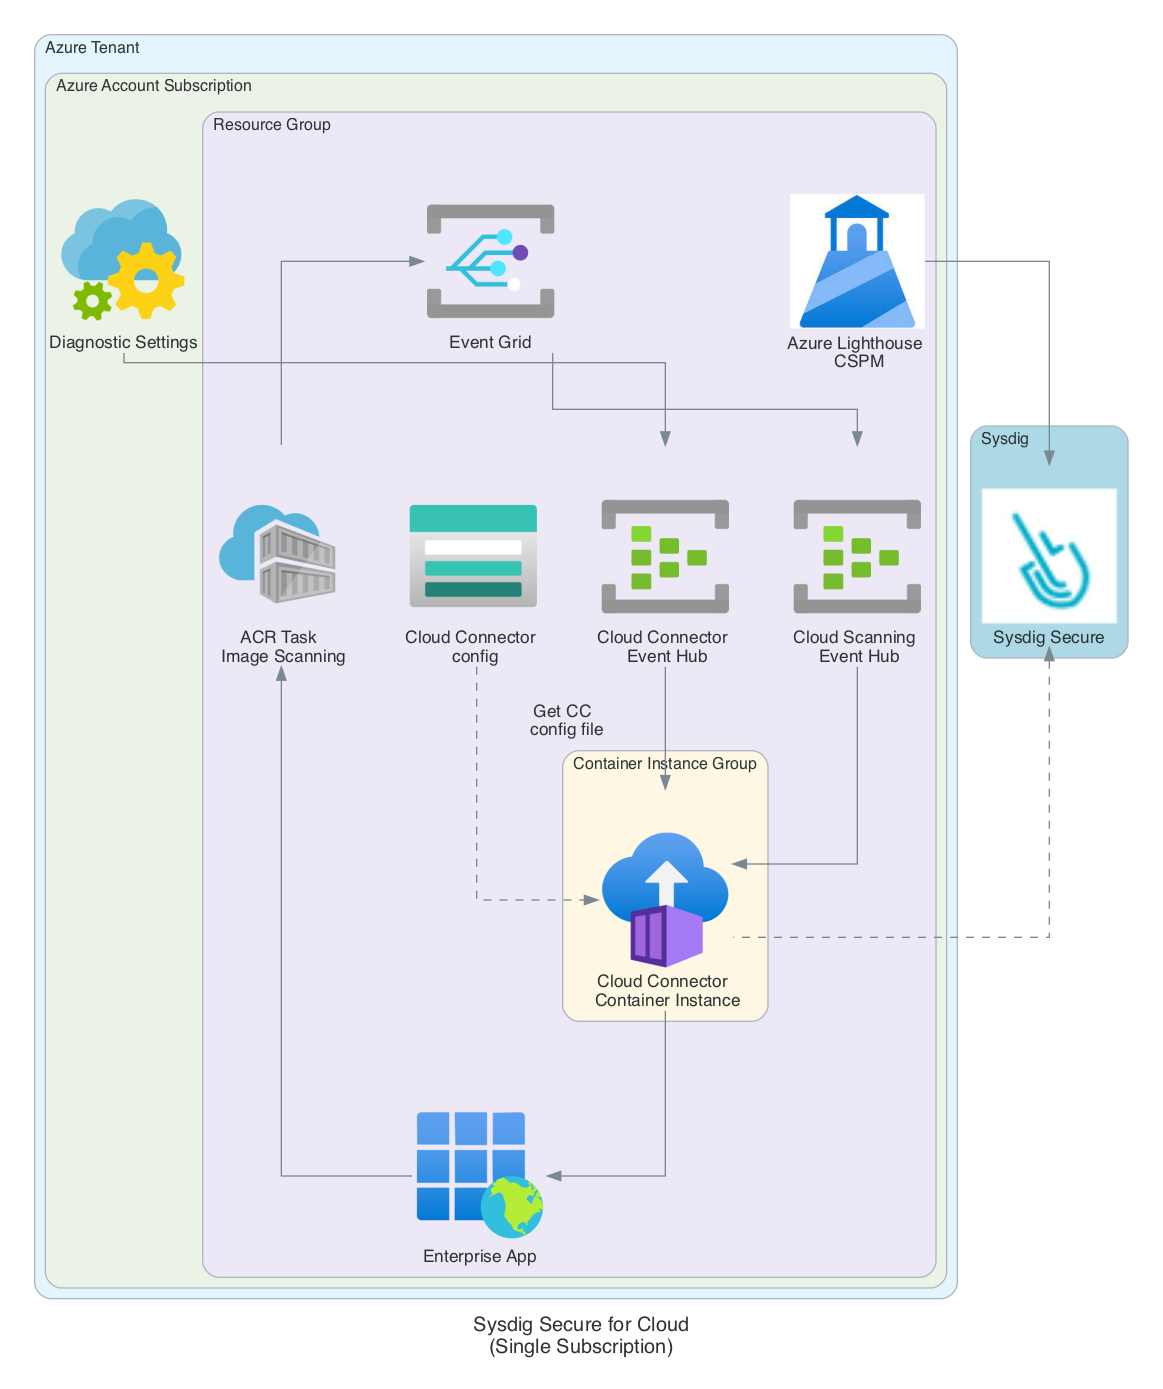
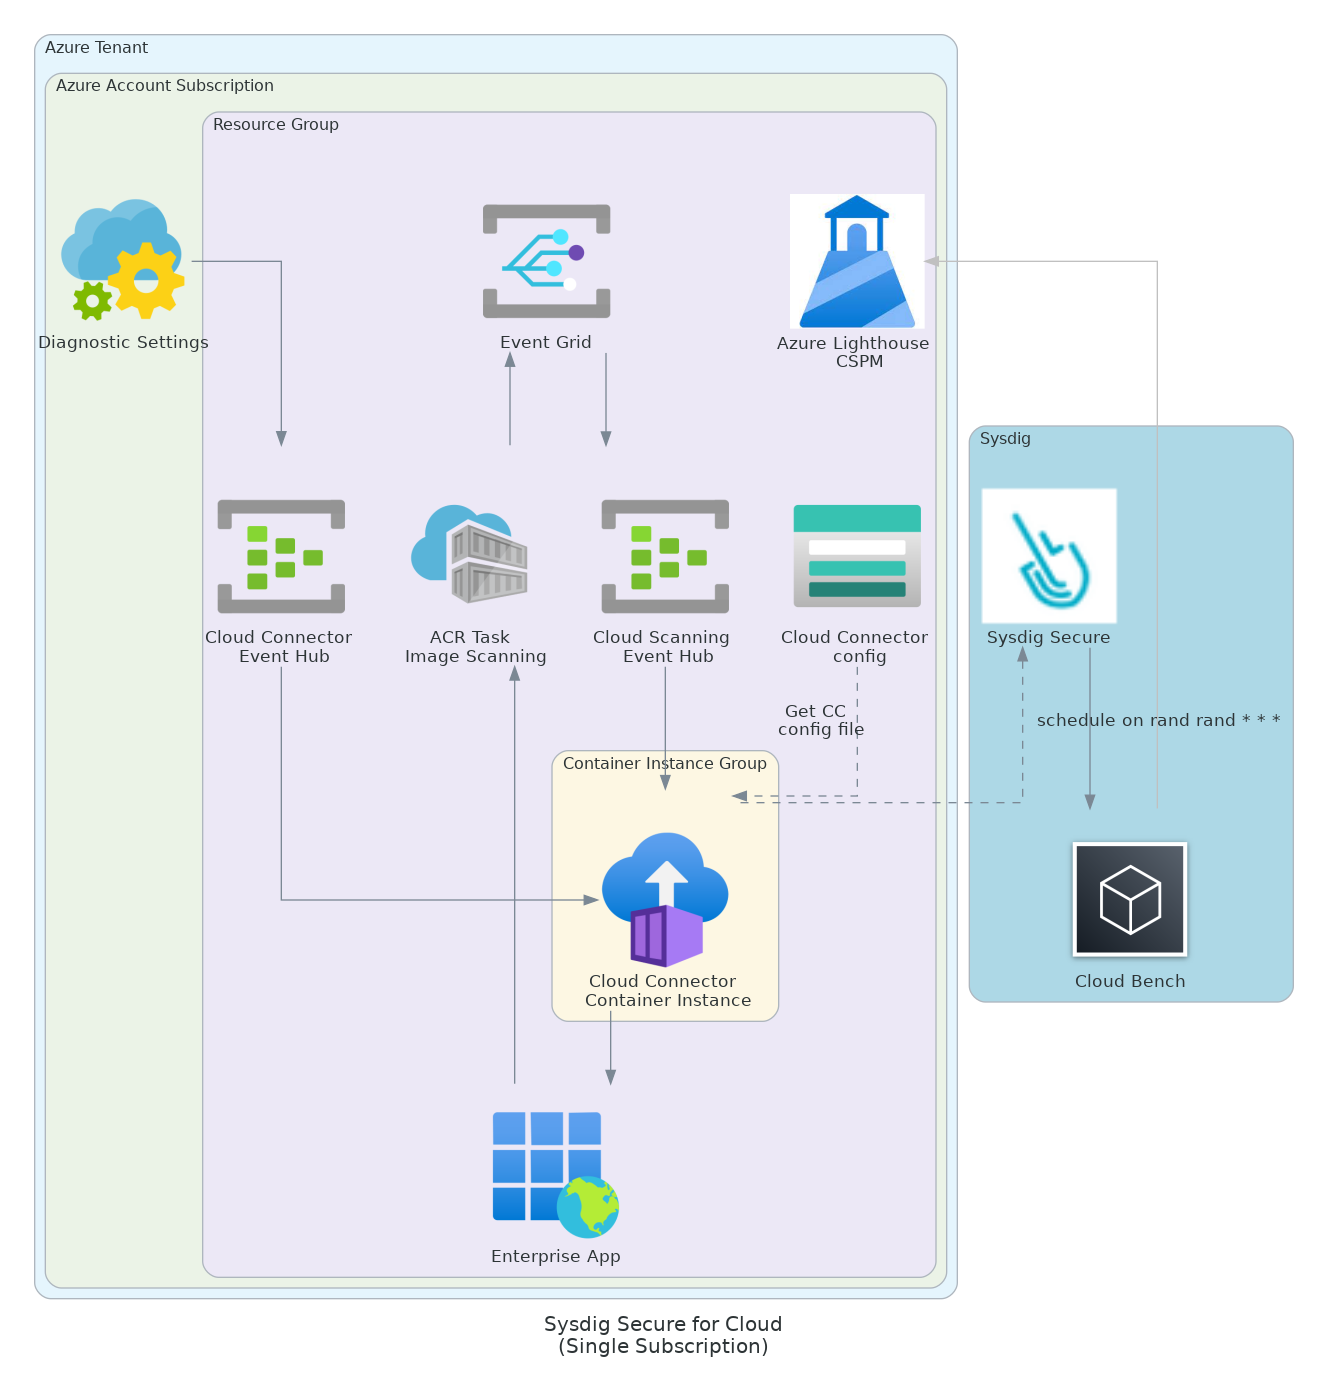
docs: homogeneize diagrams and minor README/CONTRIBUTE changes (#62)
* docs: homogeneize diagrams and minor README/CONTRIBUTE changes

* ci: upgrade terraform-docs on PR actions

diff --git a/examples/tenant-subscriptions/diagram-tenant.py b/examples/tenant-subscriptions/diagram-tenant.py
@@ -1,4 +1,6 @@
 # diagrams as code vía https://diagrams.mingrammer.com
+
+from diagrams.aws.general import General
 from diagrams import Diagram, Cluster, Edge
 from diagrams.azure.compute import ContainerInstances, ContainerRegistries, FunctionApps
 from diagrams.azure.storage import StorageAccounts
@@ -18,13 +20,12 @@ role_attr = {
     "fontsize": "9",
 }
 
+color_non_important="gray"
+
 with Diagram("Sysdig Secure for Cloud\n(Single Subscription)", graph_attr=diagram_attr, filename="diagram-tenant",
              show=True,
              direction="TB"):
     with Cluster("Azure Tenant"):
-        with Cluster("Sysdig", graph_attr={"bgcolor": "lightblue"}):
-            sds = Custom("Sysdig Secure", "../../resources/diag-sysdig-icon.png")
-
         with Cluster("Azure Account Subscription 2", graph_attr={"bgcolor": "seashell2"}):
             diagnosticSettings = AppConfiguration("Diagnostic Settings")
             with Cluster("Resource Group"):
@@ -50,7 +51,7 @@ with Diagram("Sysdig Secure for Cloud\n(Single Subscription)", graph_attr=diagra
                 app = EnterpriseApplications("Enterprise App")
                 cregistry = ContainerRegistries("ACR Task \n Image Scanning")
                 eventGrid = EventGridDomains("Event Grid")
-                bench = Custom("Azure Lighthouse \n CSPM", "../../resources/diag-lighthouse.jpeg")
+                lighthouse = Custom("Azure Lighthouse \n CSPM", "../../resources/diag-lighthouse.jpeg")
 
                 ccConfig >> Edge(style="dashed", label="Get CC \n config file") >> cc
                 cregistry << app
@@ -62,8 +63,13 @@ with Diagram("Sysdig Secure for Cloud\n(Single Subscription)", graph_attr=diagra
                 eventGrid << cregistry
                 eventGrid >> eventhubCS
 
-                sds << Edge(style="dashed") << cc
-                bench >> sds
-
                 eventhubCC1 >> cc
                 eventhubCS1 >> cc
+
+    with Cluster("Sysdig", graph_attr={"bgcolor": "lightblue"}):
+        sds = Custom("Sysdig Secure", "../../resources/diag-sysdig-icon.png")
+        bench = General("Cloud Bench")
+        sds >> Edge(label="schedule on rand rand * * *") >> bench
+
+    sds << Edge(style="dashed") << cc
+    lighthouse <<  Edge(color=color_non_important) << bench

diff --git a/examples/single-subscription/diagram-single.py b/examples/single-subscription/diagram-single.py
@@ -1,4 +1,6 @@
 # diagrams as code vía https://diagrams.mingrammer.com
+
+from diagrams.aws.general import General
 from diagrams import Diagram, Cluster, Edge
 from diagrams.azure.compute import ContainerInstances, ContainerRegistries, FunctionApps
 from diagrams.azure.storage import StorageAccounts
@@ -18,11 +20,11 @@ role_attr = {
     "fontsize": "9",
 }
 
+color_non_important="gray"
+
 with Diagram("Sysdig Secure for Cloud\n(Single Subscription)", graph_attr=diagram_attr, filename="diagram-single",
              show=True,
              direction="TB"):
-    with Cluster("Sysdig", graph_attr={"bgcolor": "lightblue"}):
-        sds = Custom("Sysdig Secure", "../../resources/diag-sysdig-icon.png")
 
     with Cluster("Azure Tenant"):
         with Cluster("Azure Account Subscription"):
@@ -38,7 +40,7 @@ with Diagram("Sysdig Secure for Cloud\n(Single Subscription)", graph_attr=diagra
                 app = EnterpriseApplications("Enterprise App")
                 cregistry = ContainerRegistries("ACR Task \n Image Scanning")
                 eventGrid = EventGridDomains("Event Grid")
-                bench = Custom("Azure Lighthouse \n CSPM", "../../resources/diag-lighthouse.jpeg")
+                lighthouse = Custom("Azure Lighthouse \n CSPM", "../../resources/diag-lighthouse.jpeg")
 
                 ccConfig >> Edge(style="dashed", label="Get CC \n config file") >> cc
                 cregistry << app
@@ -46,9 +48,15 @@ with Diagram("Sysdig Secure for Cloud\n(Single Subscription)", graph_attr=diagra
                 eventhubCC >> cc
                 eventhubCS >> cc
                 cc >> app
-                bench >> sds
 
                 eventGrid << cregistry
                 eventGrid >> eventhubCS
 
-                sds << Edge(style="dashed") << cc
+
+    with Cluster("Sysdig", graph_attr={"bgcolor": "lightblue"}):
+        sds = Custom("Sysdig Secure", "../../resources/diag-sysdig-icon.png")
+        bench = General("Cloud Bench")
+        sds >> Edge(label="schedule on rand rand * * *") >> bench
+
+    sds << Edge(style="dashed") << cc
+    lighthouse <<  Edge(color=color_non_important) << bench

diff --git a/CONTRIBUTE.md b/CONTRIBUTE.md
@@ -39,10 +39,10 @@
 - [ ] **input/output** variables have been modified?
   - [ ] terraform-docs has been updated accordingly
   - [ ] if these inputs are mandatory, they've been changed on
-    - [ ] examples
-    - [ ] testing use-cases
-    - [ ] snippets on README's
-    - [ ] snippets on Secure Platform onboarding
+    - [ ] examples, examples-internal and use-cases are updated accordingly
+    - [ ] tests are updated accordingly
+    - [ ] snippets on README's are updated accordingly
+    - [ ] snippets on Secure Platform onboarding are updated accordingly
 - [ ] had any problems developing this PR? add it to the readme **troubleshooting** list! may come handy to someone
 
 
@@ -69,9 +69,31 @@ Implemented vía **Terraform Kitchen** | https://newcontext-oss.github.io/kitche
 
 - Kitchen configuration can be found in `/.kitchen.yml`
 - Under `/test/fixtures` you can find the targets that will be tested. Please keep this as similar as possible to the Terraform Registry Modules examples.
+  - In order to test this in your local environment use following recipee
+  ```bash
+  terraform init -backend=false && \
+  terraform validate && \
+  terraform plan && \
+  read && \   # will give you time to review plan or just push enter to apply
+  terraform apply --auto-approve
+  ```
 - AWS_PROFILE configuration is required to access the [TF s3 state backend](#terraform-backend)
 
-**Running Kitchen tests locally**
+### Terraform Backend
+
+Because CI/CD sometimes fail, we setup the Terraform state to be handled in backend (s3+dynamo) within the Sysdig AWS backend (sysdig-test-account).
+
+### Remote state cleanup from local
+
+In case you need to handle terraform backend state from failing kitchen tests, some guidance for using the `backend.tf` remote state manifest, present on each test
+- Configure same parameters as the github action, that is `AWS_PROFILE`, and leave default `name` and `region` values
+- Kitchen works with `terraform workspaces` so, in case you want to fix a specific test, switch to that workspace after the `terraform init` with `terraform workspace select WORKSPACE`
+- Perform the desired terraform task
+
+You can also use `kitchen destroy` instead of `terraform` but the requirements are the same, except that the workspace will be managed through kitchen
+
+
+### Running Kitchen tests locally
 
 Ruby 2.7 is required to launch the tests.
 Run `bundle install` to get kitchen-terraform bundle.
@@ -87,17 +109,12 @@ $ bundle exec kitchen destroy
 $ bundle exec kitchen tests
 
 # run one specific test
-$ bundle exec kitchen test "single-account-k8s-aws"
-
+$ bundle exec kitchen test "single-subscription"
 ```
 
-### Terraform Backend
-
-Because CI/CD sometimes fail, we setup the Terraform state to be handled in backend (s3+dynamo) within the Sysdig AWS backend (sysdig-test-account).
-In order to be able to use this Terraform backend AWS credentials are configured as Github project secret
-
-If terraform state ends up in bad shape and not cleaned, use the action called `Test Cleanup` that should destroy any messed situation.
-If this does not work, try it from your local, but please do it using `kitchen destroy`, not `terraform destroy` unless you really know what you're doing :]
+Note: As said before kitchen works with workspaces, so any local test, unless you change it, will fall into the `default` workspace and will not collide with
+Github Action tests. May collide however with other peers if they're doing similar tasks on local ;)
+You can always temporary delete the `backend.tf` file on the test you're running
 
 ### Deployed infrastructure resources
 

diff --git a/examples/tenant-subscriptions/README.md b/examples/tenant-subscriptions/README.md
@@ -82,19 +82,19 @@ Notice that:
 
 | Name | Version |
 |------|---------|
-| <a name="provider_azurerm"></a> [azurerm](#provider\_azurerm) | >= 2.85.0 |
+| <a name="provider_azurerm"></a> [azurerm](#provider\_azurerm) | 2.85.0 |
 
 ## Modules
 
 | Name | Source | Version |
 |------|--------|---------|
-| <a name="module_cloud_bench"></a> [cloud\_bench](#module\_cloud\_bench) | ../../modules/services/cloud-bench |  |
-| <a name="module_cloud_connector"></a> [cloud\_connector](#module\_cloud\_connector) | ../../modules/services/cloud-connector |  |
-| <a name="module_infrastructure_container_registry"></a> [infrastructure\_container\_registry](#module\_infrastructure\_container\_registry) | ../../modules/infrastructure/container_registry |  |
-| <a name="module_infrastructure_enterprise_app"></a> [infrastructure\_enterprise\_app](#module\_infrastructure\_enterprise\_app) | ../../modules/infrastructure/enterprise_app |  |
-| <a name="module_infrastructure_eventgrid_eventhub"></a> [infrastructure\_eventgrid\_eventhub](#module\_infrastructure\_eventgrid\_eventhub) | ../../modules/infrastructure/eventhub |  |
-| <a name="module_infrastructure_eventhub"></a> [infrastructure\_eventhub](#module\_infrastructure\_eventhub) | ../../modules/infrastructure/eventhub |  |
-| <a name="module_infrastructure_resource_group"></a> [infrastructure\_resource\_group](#module\_infrastructure\_resource\_group) | ../../modules/infrastructure/resource_group |  |
+| <a name="module_cloud_bench"></a> [cloud\_bench](#module\_cloud\_bench) | ../../modules/services/cloud-bench | n/a |
+| <a name="module_cloud_connector"></a> [cloud\_connector](#module\_cloud\_connector) | ../../modules/services/cloud-connector | n/a |
+| <a name="module_infrastructure_container_registry"></a> [infrastructure\_container\_registry](#module\_infrastructure\_container\_registry) | ../../modules/infrastructure/container_registry | n/a |
+| <a name="module_infrastructure_enterprise_app"></a> [infrastructure\_enterprise\_app](#module\_infrastructure\_enterprise\_app) | ../../modules/infrastructure/enterprise_app | n/a |
+| <a name="module_infrastructure_eventgrid_eventhub"></a> [infrastructure\_eventgrid\_eventhub](#module\_infrastructure\_eventgrid\_eventhub) | ../../modules/infrastructure/eventhub | n/a |
+| <a name="module_infrastructure_eventhub"></a> [infrastructure\_eventhub](#module\_infrastructure\_eventhub) | ../../modules/infrastructure/eventhub | n/a |
+| <a name="module_infrastructure_resource_group"></a> [infrastructure\_resource\_group](#module\_infrastructure\_resource\_group) | ../../modules/infrastructure/resource_group | n/a |
 
 ## Resources
 

diff --git a/examples/single-subscription/README.md b/examples/single-subscription/README.md
@@ -66,13 +66,13 @@ Notice that:
 
 | Name | Source | Version |
 |------|--------|---------|
-| <a name="module_cloud_bench"></a> [cloud\_bench](#module\_cloud\_bench) | ../../modules/services/cloud-bench |  |
-| <a name="module_cloud_connector"></a> [cloud\_connector](#module\_cloud\_connector) | ../../modules/services/cloud-connector |  |
-| <a name="module_infrastructure_container_registry"></a> [infrastructure\_container\_registry](#module\_infrastructure\_container\_registry) | ../../modules/infrastructure/container_registry |  |
-| <a name="module_infrastructure_enterprise_app"></a> [infrastructure\_enterprise\_app](#module\_infrastructure\_enterprise\_app) | ../../modules/infrastructure/enterprise_app |  |
-| <a name="module_infrastructure_eventgrid_eventhub"></a> [infrastructure\_eventgrid\_eventhub](#module\_infrastructure\_eventgrid\_eventhub) | ../../modules/infrastructure/eventhub |  |
-| <a name="module_infrastructure_eventhub"></a> [infrastructure\_eventhub](#module\_infrastructure\_eventhub) | ../../modules/infrastructure/eventhub |  |
-| <a name="module_infrastructure_resource_group"></a> [infrastructure\_resource\_group](#module\_infrastructure\_resource\_group) | ../../modules/infrastructure/resource_group |  |
+| <a name="module_cloud_bench"></a> [cloud\_bench](#module\_cloud\_bench) | ../../modules/services/cloud-bench | n/a |
+| <a name="module_cloud_connector"></a> [cloud\_connector](#module\_cloud\_connector) | ../../modules/services/cloud-connector | n/a |
+| <a name="module_infrastructure_container_registry"></a> [infrastructure\_container\_registry](#module\_infrastructure\_container\_registry) | ../../modules/infrastructure/container_registry | n/a |
+| <a name="module_infrastructure_enterprise_app"></a> [infrastructure\_enterprise\_app](#module\_infrastructure\_enterprise\_app) | ../../modules/infrastructure/enterprise_app | n/a |
+| <a name="module_infrastructure_eventgrid_eventhub"></a> [infrastructure\_eventgrid\_eventhub](#module\_infrastructure\_eventgrid\_eventhub) | ../../modules/infrastructure/eventhub | n/a |
+| <a name="module_infrastructure_eventhub"></a> [infrastructure\_eventhub](#module\_infrastructure\_eventhub) | ../../modules/infrastructure/eventhub | n/a |
+| <a name="module_infrastructure_resource_group"></a> [infrastructure\_resource\_group](#module\_infrastructure\_resource\_group) | ../../modules/infrastructure/resource_group | n/a |
 
 ## Resources
 

diff --git a/examples/single-subscription-k8s/README.md b/examples/single-subscription-k8s/README.md
@@ -64,18 +64,18 @@ Notice that:
 | Name | Version |
 |------|---------|
 | <a name="provider_azurerm"></a> [azurerm](#provider\_azurerm) | 2.85.0 |
-| <a name="provider_helm"></a> [helm](#provider\_helm) | >=2.3.0 |
+| <a name="provider_helm"></a> [helm](#provider\_helm) | 2.4.1 |
 
 ## Modules
 
 | Name | Source | Version |
 |------|--------|---------|
-| <a name="module_cloud_bench"></a> [cloud\_bench](#module\_cloud\_bench) | ../../modules/services/cloud-bench |  |
-| <a name="module_infrastructure_container_registry"></a> [infrastructure\_container\_registry](#module\_infrastructure\_container\_registry) | ../../modules/infrastructure/container_registry |  |
-| <a name="module_infrastructure_enterprise_app"></a> [infrastructure\_enterprise\_app](#module\_infrastructure\_enterprise\_app) | ../../modules/infrastructure/enterprise_app |  |
-| <a name="module_infrastructure_eventgrid_eventhub"></a> [infrastructure\_eventgrid\_eventhub](#module\_infrastructure\_eventgrid\_eventhub) | ../../modules/infrastructure/eventhub |  |
-| <a name="module_infrastructure_eventhub"></a> [infrastructure\_eventhub](#module\_infrastructure\_eventhub) | ../../modules/infrastructure/eventhub |  |
-| <a name="module_infrastructure_resource_group"></a> [infrastructure\_resource\_group](#module\_infrastructure\_resource\_group) | ../../modules/infrastructure/resource_group |  |
+| <a name="module_cloud_bench"></a> [cloud\_bench](#module\_cloud\_bench) | ../../modules/services/cloud-bench | n/a |
+| <a name="module_infrastructure_container_registry"></a> [infrastructure\_container\_registry](#module\_infrastructure\_container\_registry) | ../../modules/infrastructure/container_registry | n/a |
+| <a name="module_infrastructure_enterprise_app"></a> [infrastructure\_enterprise\_app](#module\_infrastructure\_enterprise\_app) | ../../modules/infrastructure/enterprise_app | n/a |
+| <a name="module_infrastructure_eventgrid_eventhub"></a> [infrastructure\_eventgrid\_eventhub](#module\_infrastructure\_eventgrid\_eventhub) | ../../modules/infrastructure/eventhub | n/a |
+| <a name="module_infrastructure_eventhub"></a> [infrastructure\_eventhub](#module\_infrastructure\_eventhub) | ../../modules/infrastructure/eventhub | n/a |
+| <a name="module_infrastructure_resource_group"></a> [infrastructure\_resource\_group](#module\_infrastructure\_resource\_group) | ../../modules/infrastructure/resource_group | n/a |
 
 ## Resources
 

diff --git a/examples/tenant-subscriptions-k8s/README.md b/examples/tenant-subscriptions-k8s/README.md
@@ -65,18 +65,18 @@ Notice that:
 | Name | Version |
 |------|---------|
 | <a name="provider_azurerm"></a> [azurerm](#provider\_azurerm) | 2.85.0 |
-| <a name="provider_helm"></a> [helm](#provider\_helm) | >=2.3.0 |
+| <a name="provider_helm"></a> [helm](#provider\_helm) | 2.4.1 |
 
 ## Modules
 
 | Name | Source | Version |
 |------|--------|---------|
-| <a name="module_cloud_bench"></a> [cloud\_bench](#module\_cloud\_bench) | ../../modules/services/cloud-bench |  |
-| <a name="module_infrastructure_container_registry"></a> [infrastructure\_container\_registry](#module\_infrastructure\_container\_registry) | ../../modules/infrastructure/container_registry |  |
-| <a name="module_infrastructure_enterprise_app"></a> [infrastructure\_enterprise\_app](#module\_infrastructure\_enterprise\_app) | ../../modules/infrastructure/enterprise_app |  |
-| <a name="module_infrastructure_eventgrid_eventhub"></a> [infrastructure\_eventgrid\_eventhub](#module\_infrastructure\_eventgrid\_eventhub) | ../../modules/infrastructure/eventhub |  |
-| <a name="module_infrastructure_eventhub"></a> [infrastructure\_eventhub](#module\_infrastructure\_eventhub) | ../../modules/infrastructure/eventhub |  |
-| <a name="module_infrastructure_resource_group"></a> [infrastructure\_resource\_group](#module\_infrastructure\_resource\_group) | ../../modules/infrastructure/resource_group |  |
+| <a name="module_cloud_bench"></a> [cloud\_bench](#module\_cloud\_bench) | ../../modules/services/cloud-bench | n/a |
+| <a name="module_infrastructure_container_registry"></a> [infrastructure\_container\_registry](#module\_infrastructure\_container\_registry) | ../../modules/infrastructure/container_registry | n/a |
+| <a name="module_infrastructure_enterprise_app"></a> [infrastructure\_enterprise\_app](#module\_infrastructure\_enterprise\_app) | ../../modules/infrastructure/enterprise_app | n/a |
+| <a name="module_infrastructure_eventgrid_eventhub"></a> [infrastructure\_eventgrid\_eventhub](#module\_infrastructure\_eventgrid\_eventhub) | ../../modules/infrastructure/eventhub | n/a |
+| <a name="module_infrastructure_eventhub"></a> [infrastructure\_eventhub](#module\_infrastructure\_eventhub) | ../../modules/infrastructure/eventhub | n/a |
+| <a name="module_infrastructure_resource_group"></a> [infrastructure\_resource\_group](#module\_infrastructure\_resource\_group) | ../../modules/infrastructure/resource_group | n/a |
 
 ## Resources
 

diff --git a/README.md b/README.md
@@ -7,16 +7,16 @@ Cloud** stack in **Azure**](https://docs.sysdig.com/en/docs/installation/sysdig-
 
 Provides unified threat-detection, compliance, forensics and analysis through these major components:
 
-* **[CSPM/Compliance](https://docs.sysdig.com/en/docs/sysdig-secure/benchmarks/)**: It evaluates periodically your cloud
+* **[CSPM/Compliance](https://docs.sysdig.com/en/docs/sysdig-secure/posture/compliance-unified-/)**: It evaluates periodically your cloud
   configuration, using Cloud Custodian, against some benchmarks and returns the results and remediation you need to fix.
   Managed through `cloud-bench` module. <br/>
 
 * **[Cloud Threat Detection](https://docs.sysdig.com/en/docs/sysdig-secure/insights/)**: Tracks abnormal and suspicious
   activities in your cloud environment based on Falco language. Managed through `cloud-connector` module. <br/>
 
-* **[Cloud Scanning](https://docs.sysdig.com/en/docs/sysdig-secure/scanning/)**: Automatically scans all container
-  images pushed to the registry or as soon a new task which involves a container is spawned in your account. Managed
-  through `cloud-connector`. <br/>
+* **[Cloud Image Scanning](https://docs.sysdig.com/en/docs/sysdig-secure/scanning/)**:
+Automatically scans all container images pushed to the registry (ACR) and the images that run on the Azure workload (currently AzureContainerInstances).
+Managed through `cloud-connector`. <br/>
 
 For other Cloud providers check: [AWS](https://github.com/sysdiglabs/terraform-aws-secure-for-cloud)
 , [GCP](https://github.com/sysdiglabs/terraform-google-secure-for-cloud)

diff --git a/modules/services/cloud-connector/README.md b/modules/services/cloud-connector/README.md
@@ -15,8 +15,8 @@ A **Container instance** deployment that will detect events in your infrastructu
 
 | Name | Version |
 |------|---------|
-| <a name="provider_azurerm"></a> [azurerm](#provider\_azurerm) | >= 2.64.0 |
-| <a name="provider_random"></a> [random](#provider\_random) | >=3.1.0 |
+| <a name="provider_azurerm"></a> [azurerm](#provider\_azurerm) | 2.96.0 |
+| <a name="provider_random"></a> [random](#provider\_random) | 3.1.0 |
 
 ## Modules
 

diff --git a/examples/trigger-events/README.md b/examples/trigger-events/README.md
@@ -62,8 +62,8 @@ Notice that:
 
 | Name | Version |
 |------|---------|
-| <a name="provider_azurerm"></a> [azurerm](#provider\_azurerm) | >= 2.64.0 |
-| <a name="provider_random"></a> [random](#provider\_random) | >=3.1.0 |
+| <a name="provider_azurerm"></a> [azurerm](#provider\_azurerm) | 2.96.0 |
+| <a name="provider_random"></a> [random](#provider\_random) | 3.1.0 |
 
 ## Modules
 

diff --git a/modules/services/cloud-bench/trust_relationship/README.md b/modules/services/cloud-bench/trust_relationship/README.md
@@ -11,8 +11,8 @@
 
 | Name | Version |
 |------|---------|
-| <a name="provider_azurerm"></a> [azurerm](#provider\_azurerm) | >= 2.85.0 |
-| <a name="provider_sysdig"></a> [sysdig](#provider\_sysdig) | >= 0.5.27 |
+| <a name="provider_azurerm"></a> [azurerm](#provider\_azurerm) | 2.96.0 |
+| <a name="provider_sysdig"></a> [sysdig](#provider\_sysdig) | 0.5.32 |
 
 ## Modules
 

diff --git a/modules/infrastructure/container_registry/README.md b/modules/infrastructure/container_registry/README.md
@@ -17,7 +17,7 @@ Deploys a container registry and creates an Event Grid to send Image Push and Ch
 | Name | Version |
 |------|---------|
 | <a name="provider_azurerm"></a> [azurerm](#provider\_azurerm) | 2.85.0 |
-| <a name="provider_random"></a> [random](#provider\_random) | >=3.1.0 |
+| <a name="provider_random"></a> [random](#provider\_random) | 3.1.0 |
 
 ## Modules
 
